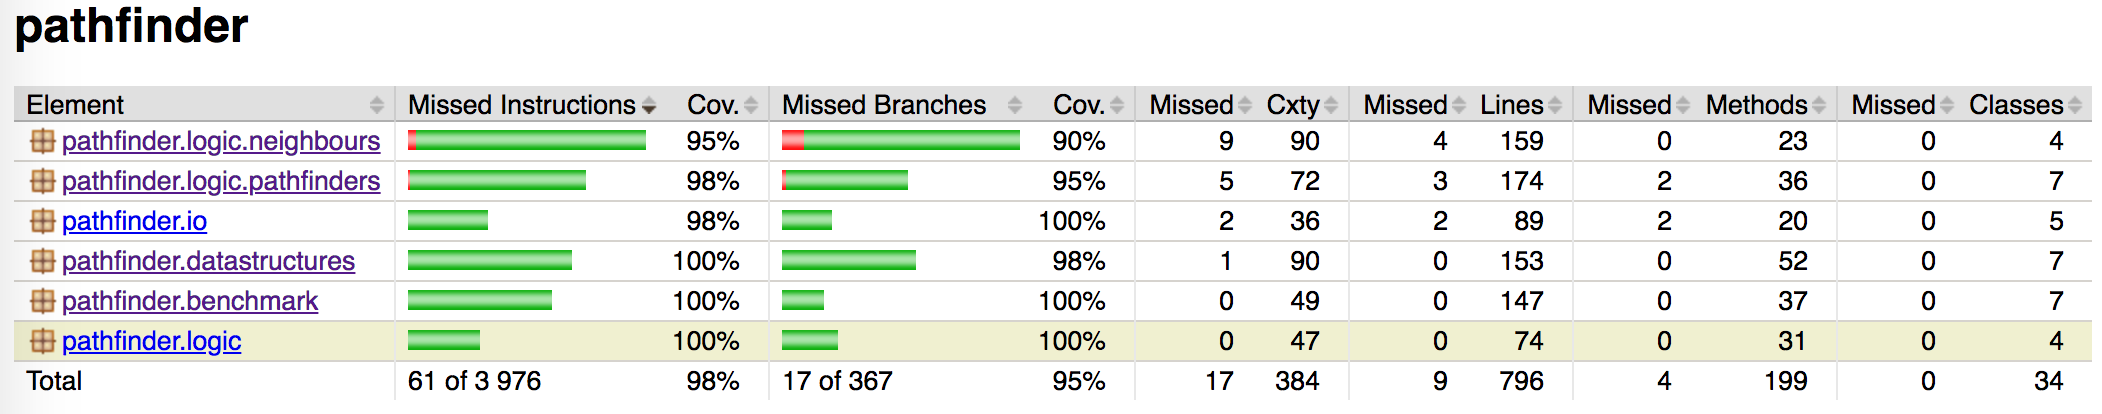
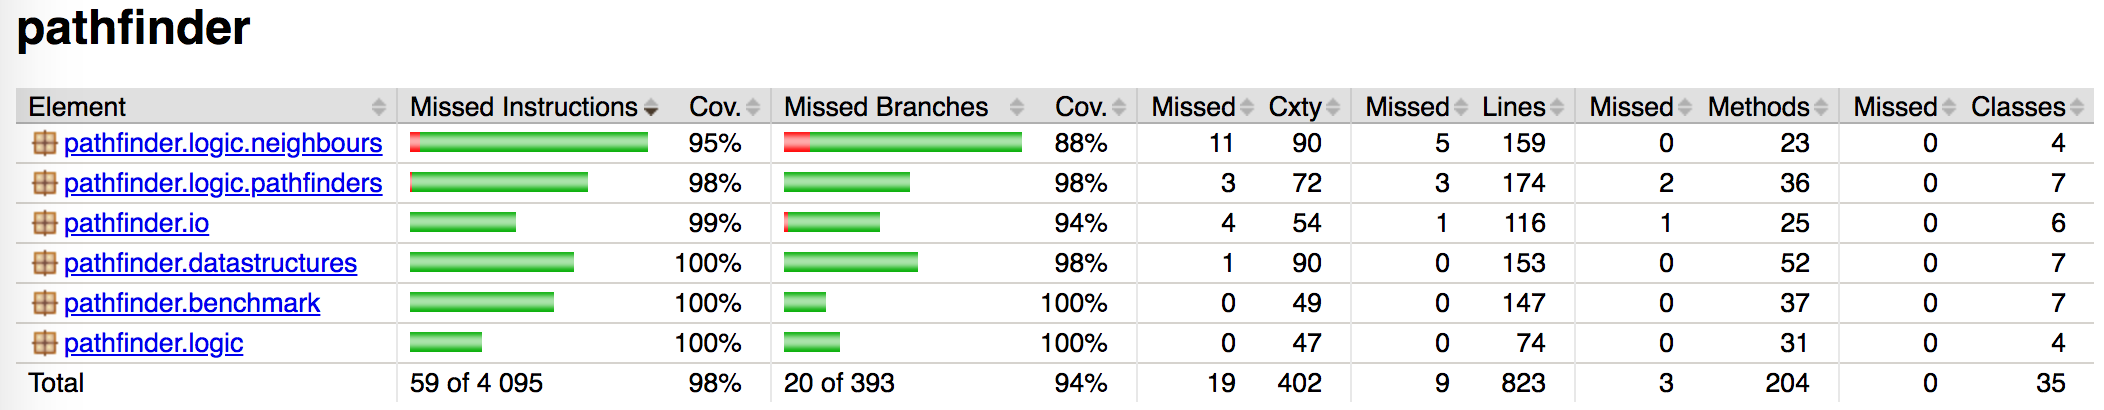
Update test coverage

diff --git a/doc/Testing_document.md b/doc/Testing_document.md
@@ -3,7 +3,7 @@
 Table of contents:
 
 - [Unit Testing](#unit-testing)
-    - [Introduction](#introduction)
+    - [Running the unit tests](#running-the-unit-tests)
     - [Package pathfinder.benchmark](#package-pathfinderbenchmark)
     - [Package pathfinder.datastructures](#package-pathfinderdatastructures)
     - [Package pathfinder.io](#package-pathfinderio)
@@ -15,12 +15,12 @@ Table of contents:
 
 ## Unit Testing
 
-### Introduction
+### Running the unit tests
 
 Unit tests can be run from the command-line with the command
 
 ```
-gradle test jacocoTestReport
+./gradlew test jacocoTestReport
 ```
 
 This command creates two reports: a test report and a JaCoCo code coverage report. They are located under the directory ```build``` and can be opened as follows:
@@ -30,7 +30,7 @@ open build/reports/tests/test/index.html
 open build/reports/jacoco/test/html/index.html
 ```
 
-There are approximately 190 unit tests, written with the JUnit unit testing framework. These give a combined line coverage of 98 % and a  branch coverage of 95 %. Furthermore, as can be seen from the table below, each individual package has a test coverage of over 90 %.
+There are 213 unit tests, written with the JUnit unit testing framework. These give a combined line coverage of 98 % and a  branch coverage of 94 %. Furthermore, as can be seen from the table below, each individual package has a test coverage of over 90 %.
 
 ![JaCoCo: summary of code coverage](img/test_coverage.png)
 
@@ -264,14 +264,14 @@ public NeighbourPruningRules getPrune(Graph graph) {
 }
 
 @Test
-public void returnsCorrectPathLengthForSmallGrid() throws IOException {
+public void returnsCorrectPathLengthForSmallGrid() throws Exception {
     Graph small = GraphReader.readFile(Paths.get("grids/tests/small.map"));
     Pathfinder pathfinder = new JumpPointSearch(small, getPrune(small));
     assertEquals(4 + 5 * Math.sqrt(2), pathfinder.run(), eps);
 }
 
 @Test
-public void returnsCorrectPathLengthForBigGrid() throws IOException {
+public void returnsCorrectPathLengthForBigGrid() throws Exception {
     Graph big = GraphReader.readFile(Paths.get("grids/tests/lak100d.map"));
     Pathfinder pathfinder = new JumpPointSearch(big, getPrune(big));
     assertEquals(812.06810913, pathfinder.run(), eps);
@@ -288,7 +288,7 @@ Code for testing these kinds of jumps is listed below. This example is from [Jum
 
 ```java
 @Test
-public void returnsJumpPointSuccessorForExampleAWhenNoCc() throws IOException {
+public void returnsJumpPointSuccessorForExampleAWhenNoCc() throws Exception {
     // This is from Figure 2(a) in the second JPS paper by Harabor and Grastien
     Graph g = GraphReader.read(new StringReader(""
             + "type octile\n"
@@ -309,7 +309,7 @@ public void returnsJumpPointSuccessorForExampleAWhenNoCc() throws IOException {
 }
 
 @Test
-public void returnsJumpPointSuccessorForExampleBWhenNoCc() throws IOException {
+public void returnsJumpPointSuccessorForExampleBWhenNoCc() throws Exception {
     // This is from Figure 2(b) in the second JPS paper by Harabor and Grastien
     Graph g = GraphReader.read(new StringReader(""
             + "type octile\n"
